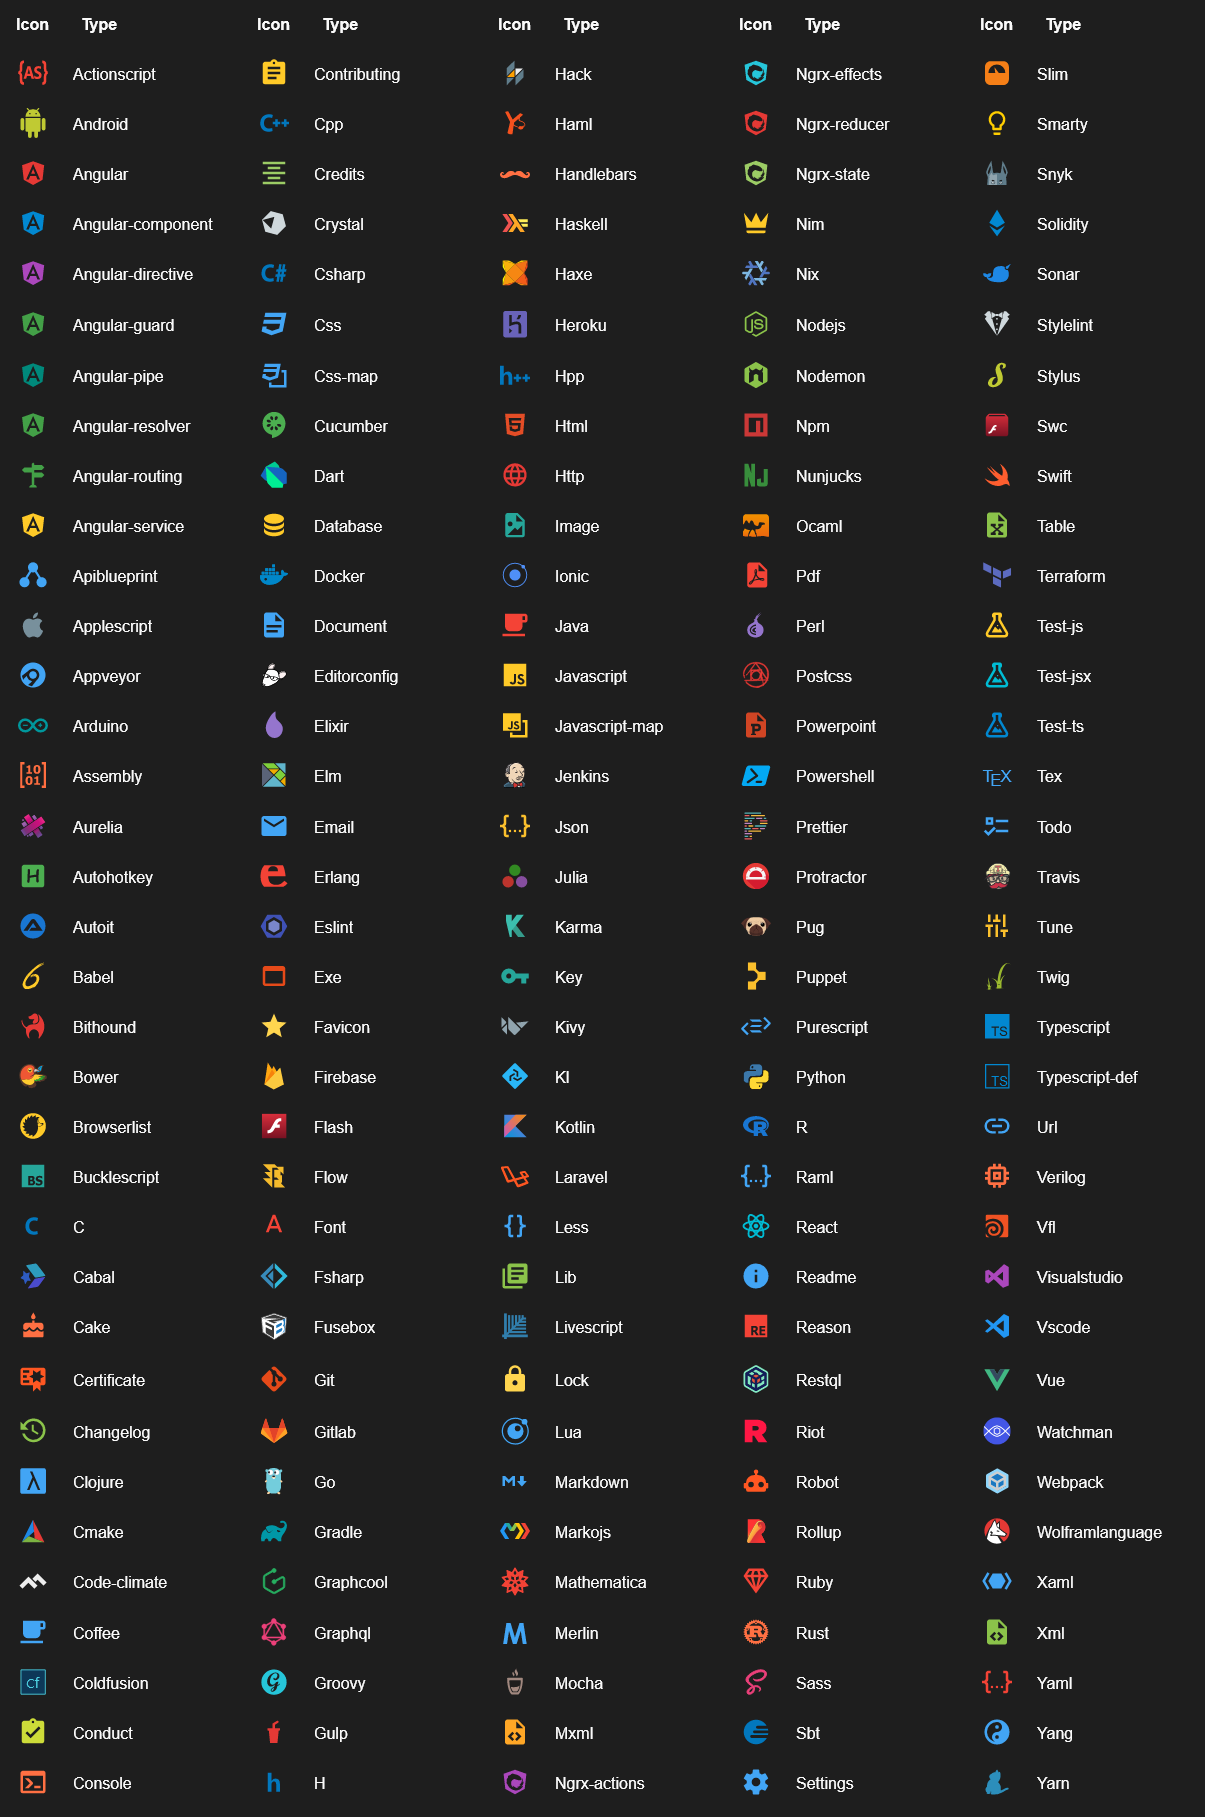
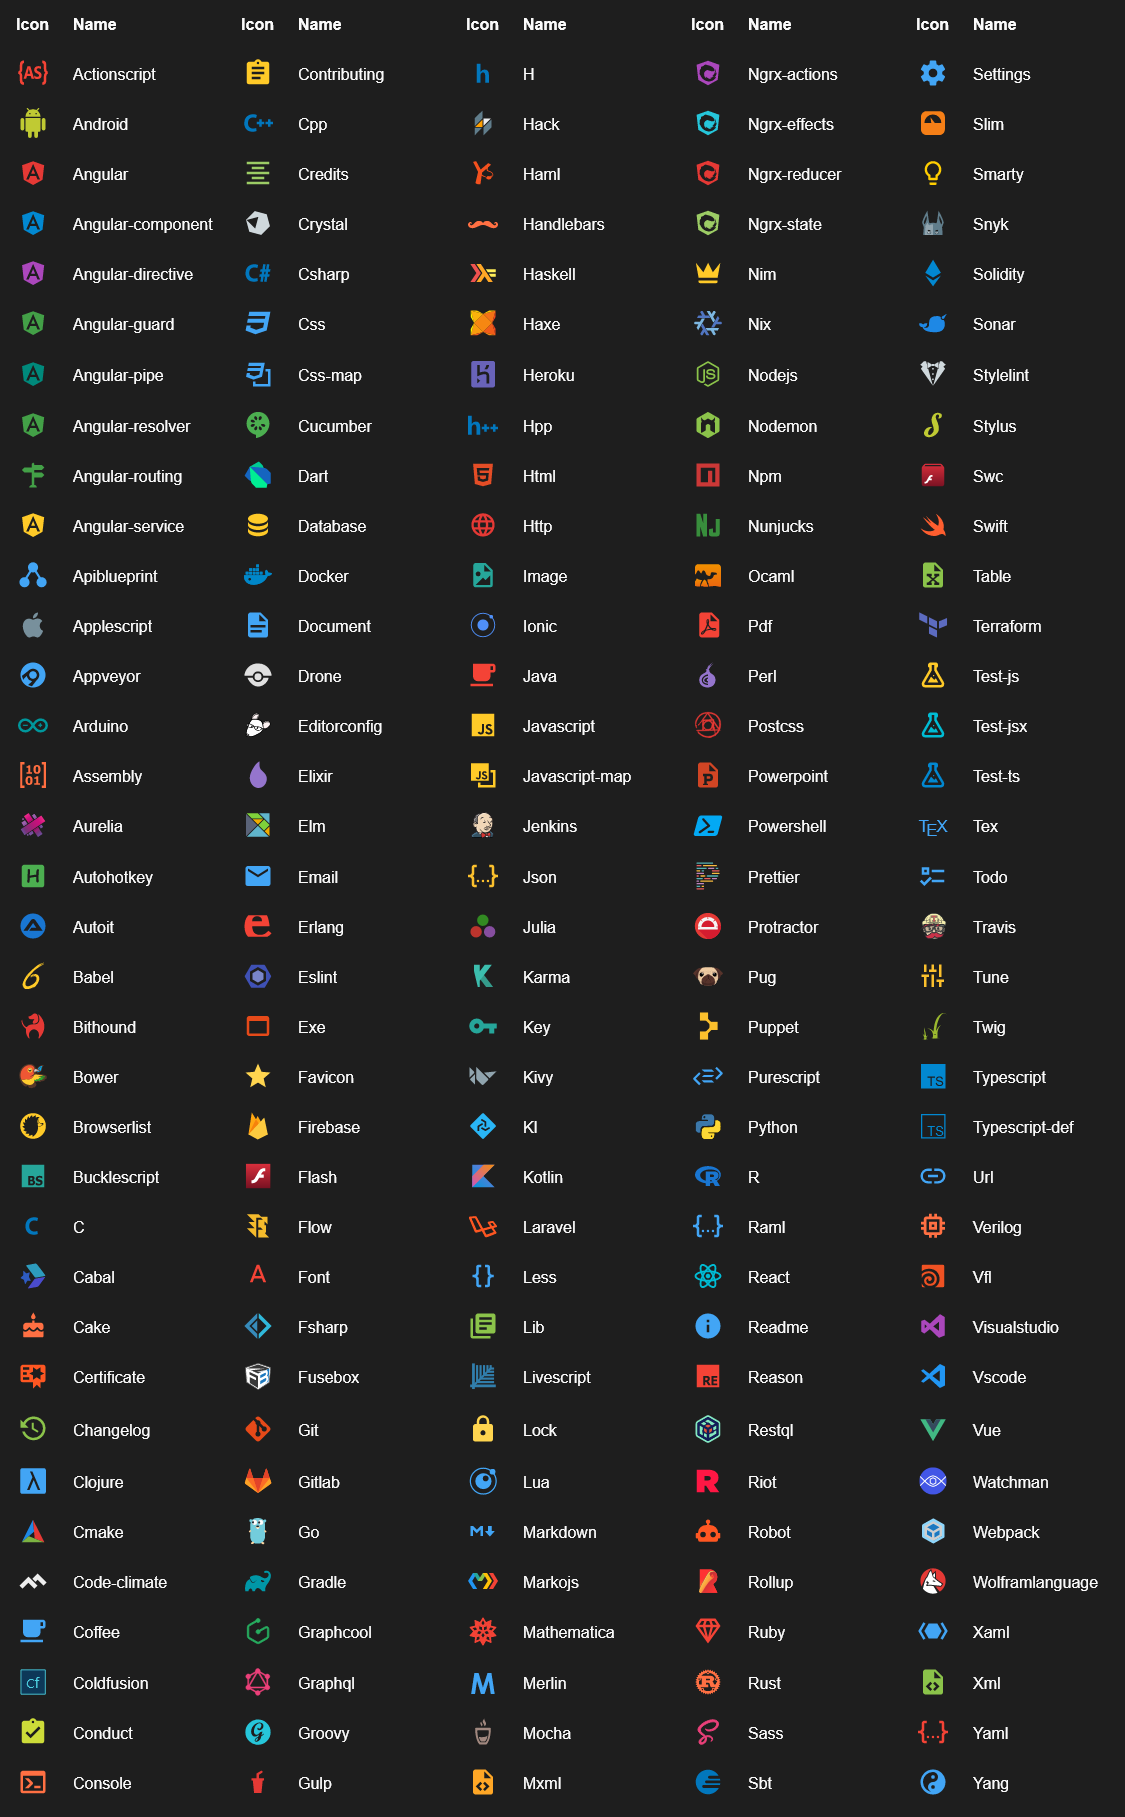
updated previews

diff --git a/scripts/preview/preview.ts b/scripts/preview/preview.ts
@@ -11,7 +11,7 @@ const styling = `<link rel="stylesheet" href="${cssFilePath}">`;
 const createHTMLTableHeadRow = (amount: number) => {
     const pair = `
         <th class="icon">Icon</th>
-        <th class="type">Type</th>
+        <th class="iconName">Name</th>
     `;
     const columns = [...Array(amount)].map(item => item = pair).join('');
     return `
@@ -28,7 +28,7 @@ const createHTMLTableBodyRows = (items: IconDefinition[][]) => {
             <td class="icon">
                 <img src="./../../icons/${icon.iconName}.svg" alt="${icon.label}">
             </td>
-            <td class="type">${toTitleCase(icon.label)}</td>
+            <td class="iconName">${toTitleCase(icon.label)}</td>
         `).join('');
         const tableRow = `
             <tr>

diff --git a/scripts/preview/style.css b/scripts/preview/style.css
@@ -18,20 +18,22 @@ td, th {
     padding: 8px;
 }
 
-th {
-    padding: 1rem;
+tr:last-child {
+    border-bottom: .5rem solid rgb(30, 30, 30);
 }
 
-tr:last-child {
+tr:first-child {
+    border-top: .5rem solid rgb(30, 30, 30);
     border-bottom: .5rem solid rgb(30, 30, 30);
 }
 
 .icon {
     width: 2rem;
     text-align: center;
+    padding: .5rem 1rem .5rem 1rem;
 }
 
-.type {
+.iconName {
     min-width: 9rem;
 }
 

diff --git a/README.md b/README.md
@@ -45,7 +45,7 @@ You can customize the icon associations directly in the user settings.
 
 ### File associations
 
-`*.[extension]` associations set the file extension mapping. E.g. every file that ends with `.ts` will have a custom icon. If there's no `*` before the association it will configured as filename.
+With the `*.[extension]` pattern you can define custom file icon associations. For example you could define an icon for `*.sample` and every file that ends with `.sample` will have the defined icon. If there's no leading `*` it will be automatically configured as filename and not as file extension.
 
 ```json
 "material-icon-theme.files.associations": {
@@ -56,7 +56,7 @@ You can customize the icon associations directly in the user settings.
 
 ### Folder associations
 
-The following configuration can customize the folder icons. It is also possible to overwrite existing associations and create nice combinations with other folder icon colors.
+The following configuration can customize the folder icons. It is also possible to overwrite existing associations and create nice combinations. For example you could change the folder theme to "classic" and define icons only for the folder names you like.
 
 ```json
 "material-icon-theme.folders.associations": {
@@ -66,11 +66,13 @@ The following configuration can customize the folder icons. It is also possible 
 ```
 
 ## One-click activation
+
 After installation or update you can click on the 'Activate'-button to activate the icon theme, if you haven't already. The icons will be visible immediately.
 
 <img src="https://raw.githubusercontent.com/PKief/vscode-material-icon-theme/dev/images/oneclickactivation.png" alt="activation" width="80%">
 
 ## Commands
+
 Press `Ctrl-Shift-P` to open the command palette and type `Material Icons`.
 
 <img src="https://raw.githubusercontent.com/PKief/vscode-material-icon-theme/dev/images/commandPalette.png" alt="commands" width="80%">
@@ -88,6 +90,7 @@ Press `Ctrl-Shift-P` to open the command palette and type `Material Icons`.
 - **Activate Icon Theme**: Activate the icon theme.
 
 ## Icon sources
+
 * [Material Design Icons](https://materialdesignicons.com/)
 * official icons
 
@@ -98,5 +101,6 @@ Read the [contribution guidelines](https://github.com/PKief/vscode-material-icon
 If you have some questions or icon requests open a [new issue](https://github.com/PKief/vscode-material-icon-theme/issues) on Github.
 
 ## Follow me
+
 - [Twitter](https://twitter.com/PhilippKief)
 - [Github](https://github.com/PKief)
